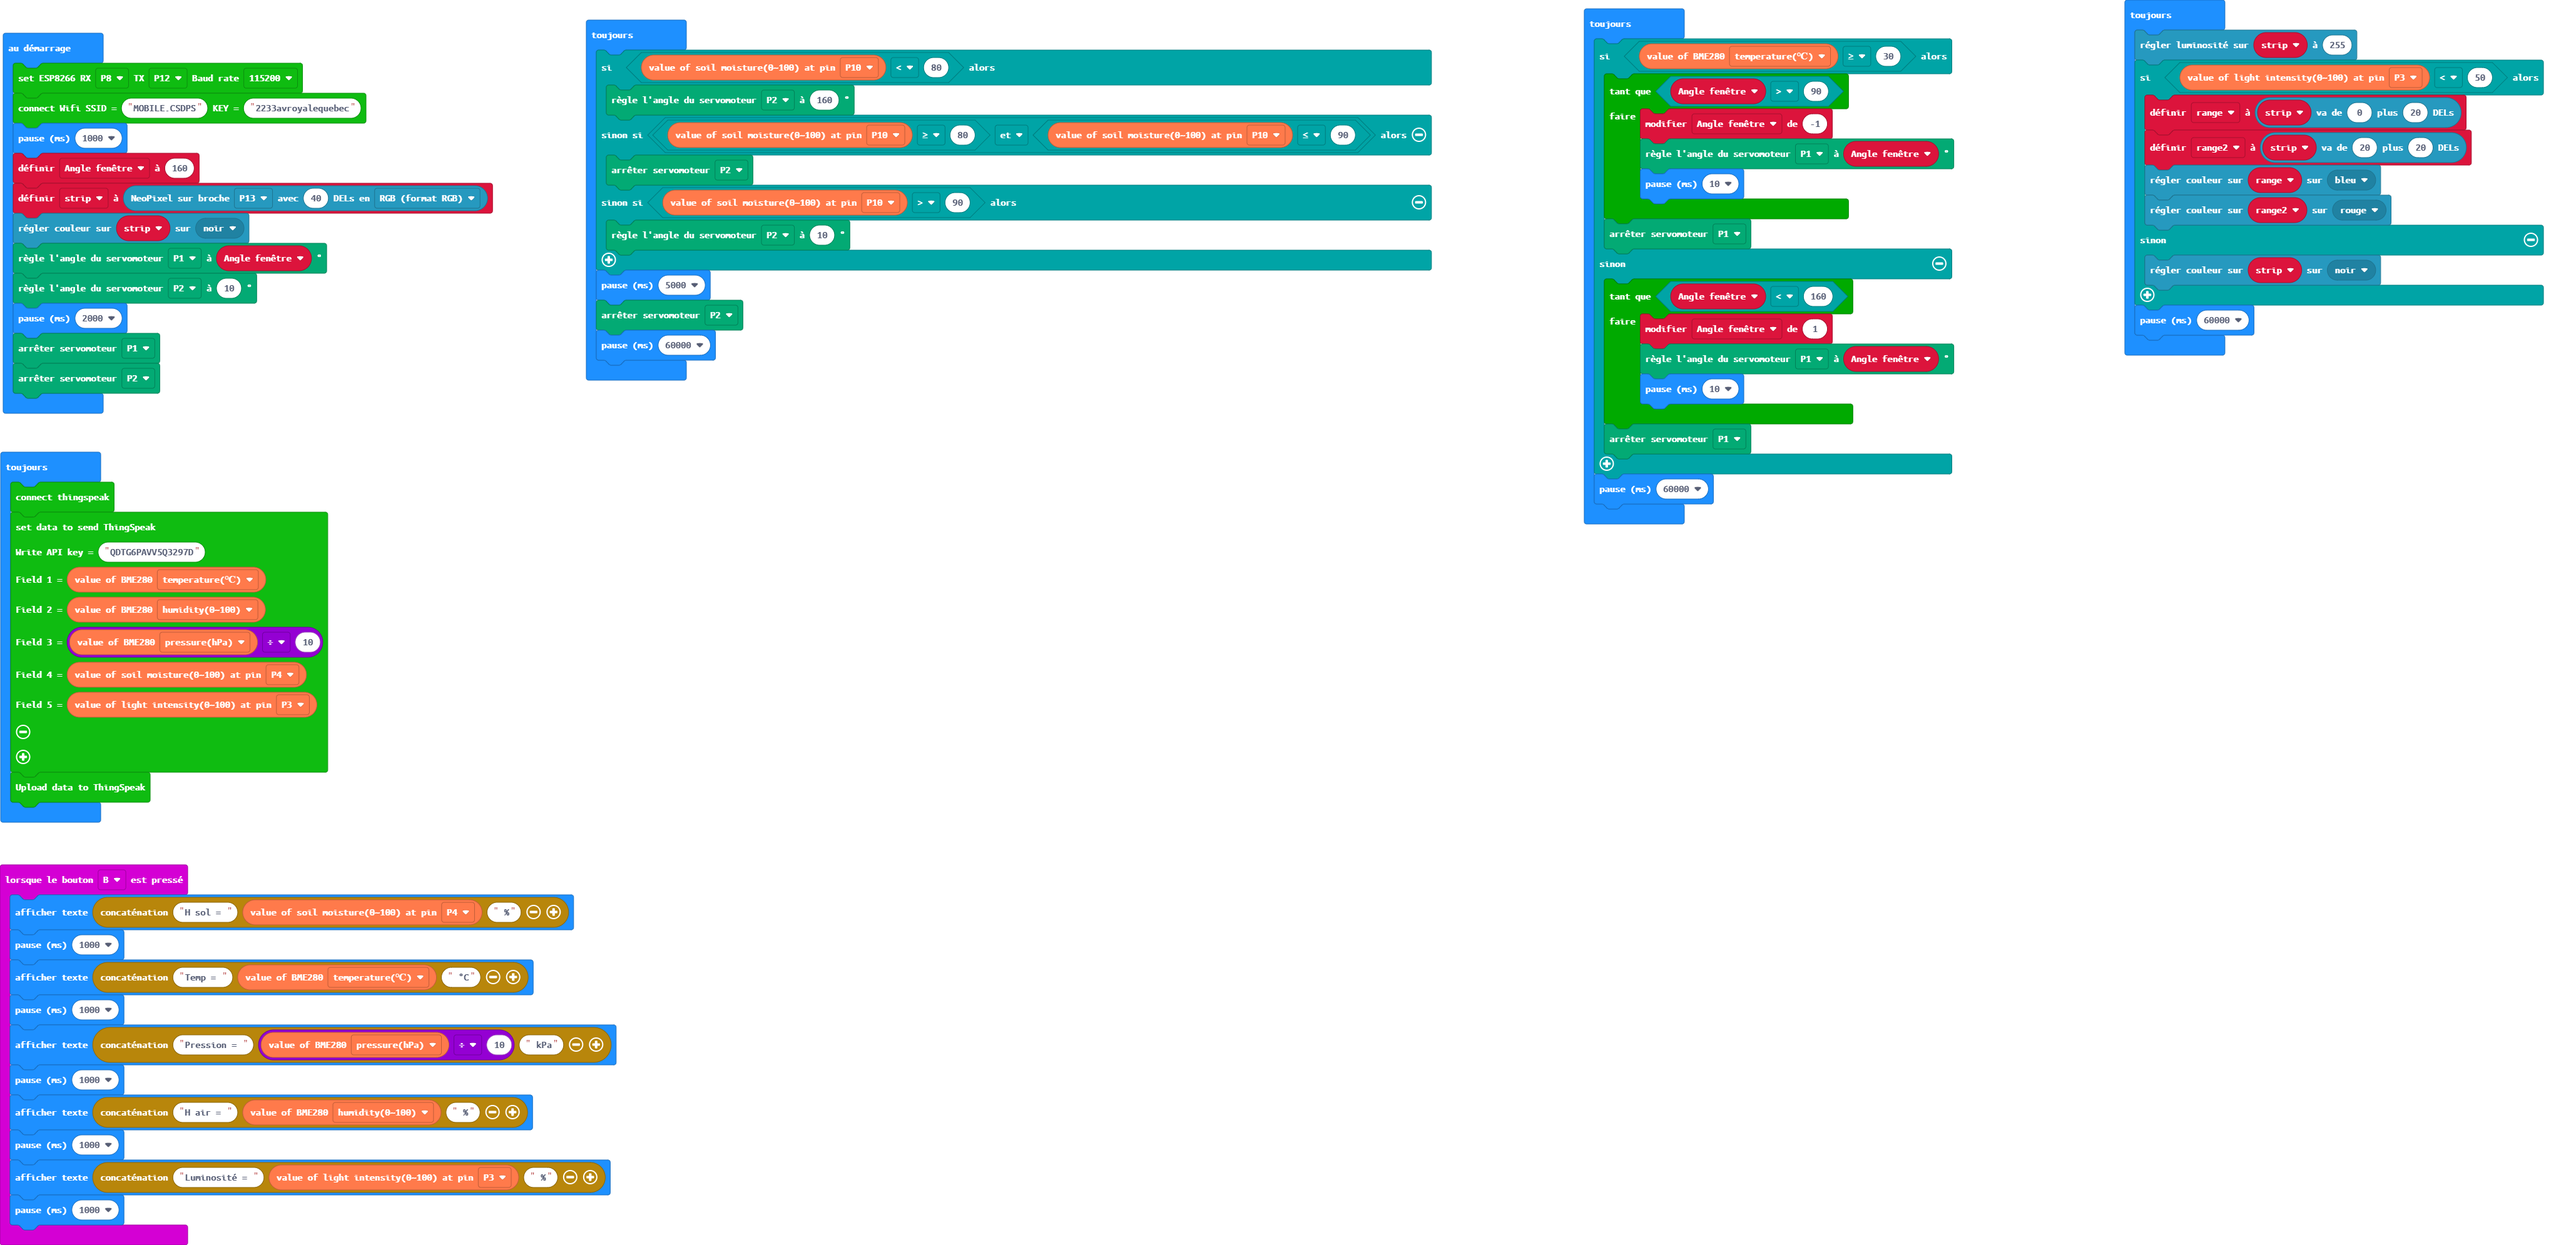
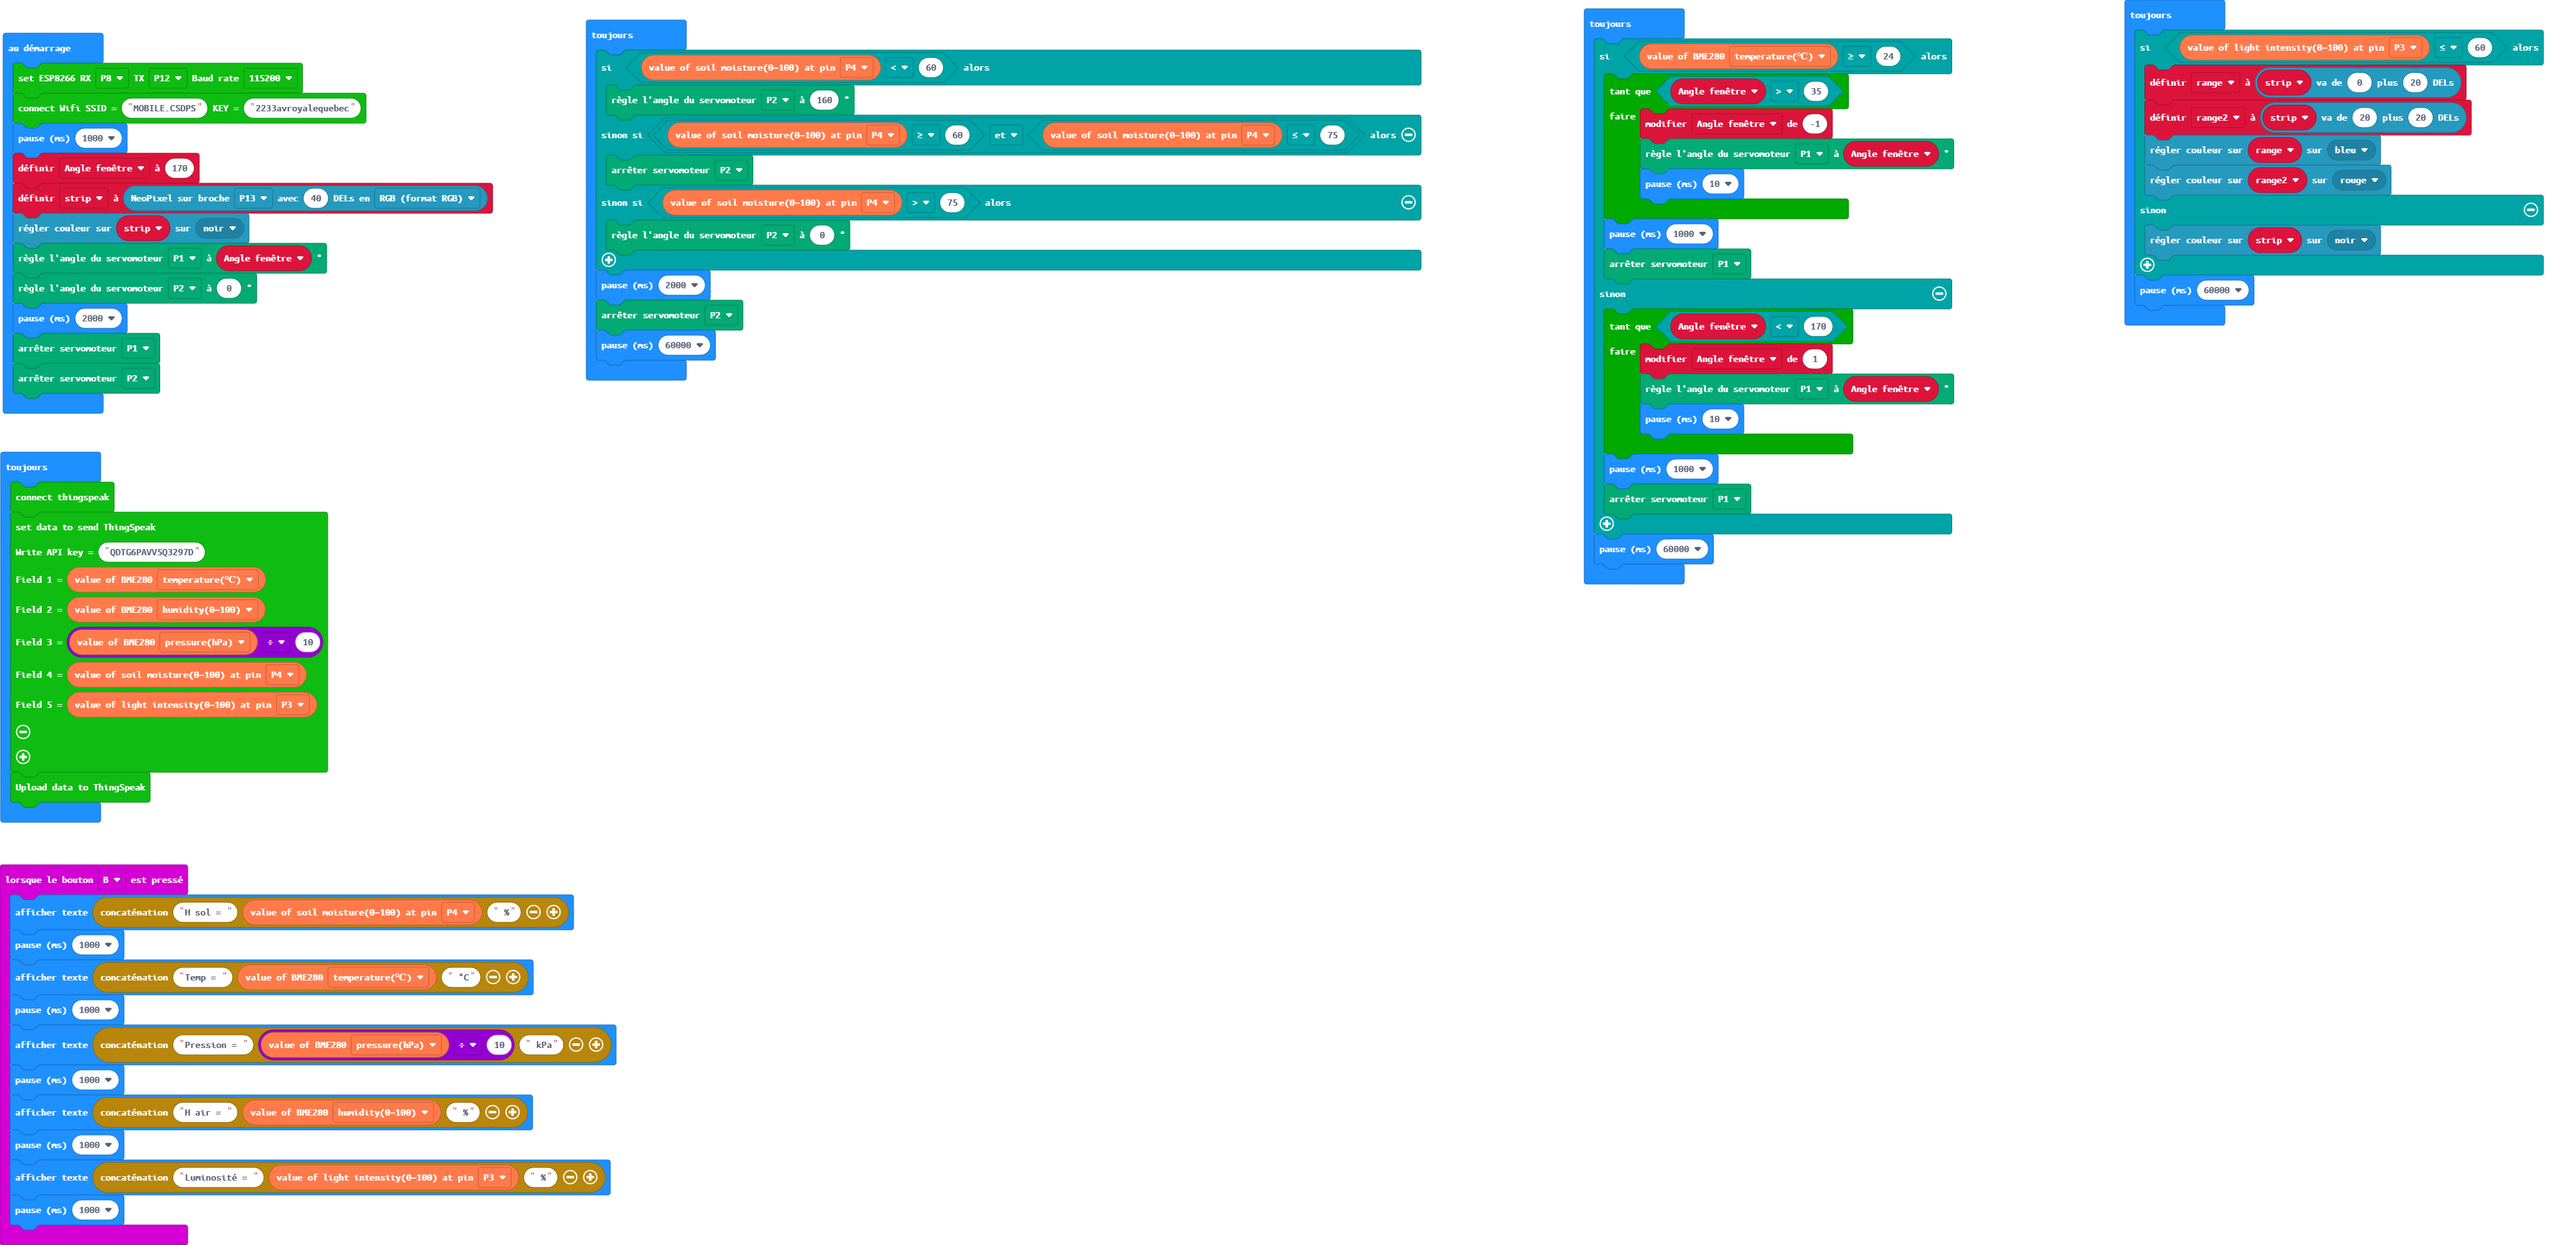
Ajuster prise de  mesures aux minutes

diff --git a/main.ts b/main.ts
@@ -15,47 +15,48 @@ let range: neopixel.Strip = null
 ESP8266_IoT.initWIFI(SerialPin.P8, SerialPin.P12, BaudRate.BaudRate115200)
 ESP8266_IoT.connectWifi("MOBILE.CSDPS", "2233avroyalequebec")
 basic.pause(1000)
-let Angle_fenêtre = 160
+let Angle_fenêtre = 170
 let strip = neopixel.create(DigitalPin.P13, 40, NeoPixelMode.RGB)
 strip.showColor(neopixel.colors(NeoPixelColors.Black))
 servos.P1.setAngle(Angle_fenêtre)
-servos.P2.setAngle(10)
+servos.P2.setAngle(0)
 basic.pause(2000)
 servos.P1.stop()
 servos.P2.stop()
 basic.forever(function () {
-    if (Environment.ReadSoilHumidity(AnalogPin.P10) < 80) {
+    if (Environment.ReadSoilHumidity(AnalogPin.P4) < 60) {
         servos.P2.setAngle(160)
-    } else if (Environment.ReadSoilHumidity(AnalogPin.P10) >= 80 && Environment.ReadSoilHumidity(AnalogPin.P10) <= 90) {
+    } else if (Environment.ReadSoilHumidity(AnalogPin.P4) >= 60 && Environment.ReadSoilHumidity(AnalogPin.P4) <= 75) {
         servos.P2.stop()
-    } else if (Environment.ReadSoilHumidity(AnalogPin.P10) > 90) {
-        servos.P2.setAngle(10)
+    } else if (Environment.ReadSoilHumidity(AnalogPin.P4) > 75) {
+        servos.P2.setAngle(0)
     }
-    basic.pause(5000)
+    basic.pause(2000)
     servos.P2.stop()
     basic.pause(60000)
 })
 basic.forever(function () {
-    if (Environment.octopus_BME280(Environment.BME280_state.BME280_temperature_C) >= 30) {
-        while (Angle_fenêtre > 90) {
+    if (Environment.octopus_BME280(Environment.BME280_state.BME280_temperature_C) >= 24) {
+        while (Angle_fenêtre > 35) {
             Angle_fenêtre += -1
             servos.P1.setAngle(Angle_fenêtre)
             basic.pause(10)
         }
+        basic.pause(1000)
         servos.P1.stop()
     } else {
-        while (Angle_fenêtre < 160) {
+        while (Angle_fenêtre < 170) {
             Angle_fenêtre += 1
             servos.P1.setAngle(Angle_fenêtre)
             basic.pause(10)
         }
+        basic.pause(1000)
         servos.P1.stop()
     }
     basic.pause(60000)
 })
 basic.forever(function () {
-    strip.setBrightness(255)
-    if (Environment.ReadLightIntensity(AnalogPin.P3) < 50) {
+    if (Environment.ReadLightIntensity(AnalogPin.P3) <= 60) {
         range = strip.range(0, 20)
         range2 = strip.range(20, 20)
         range.showColor(neopixel.colors(NeoPixelColors.Blue))
